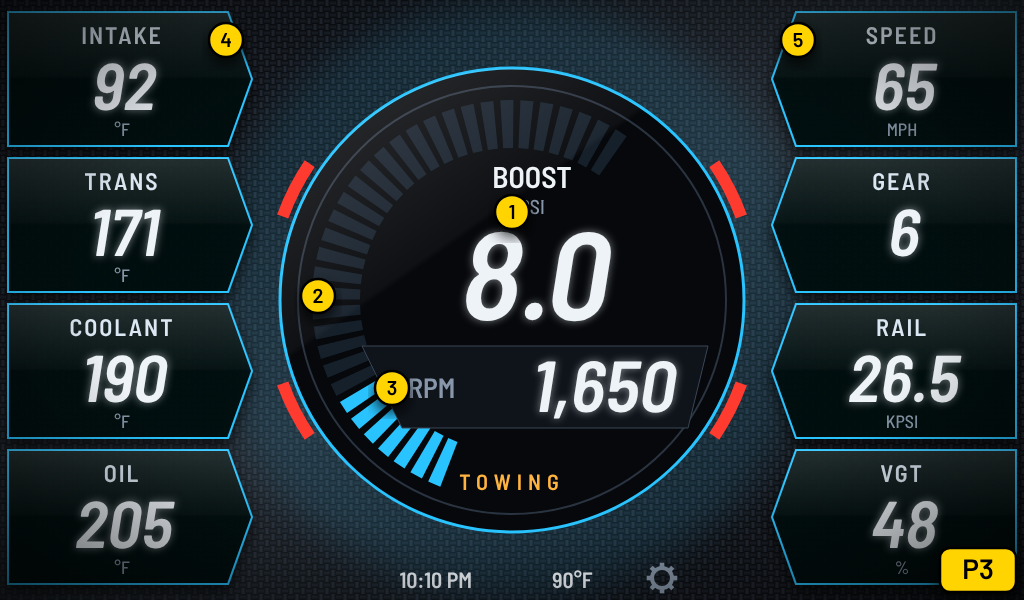
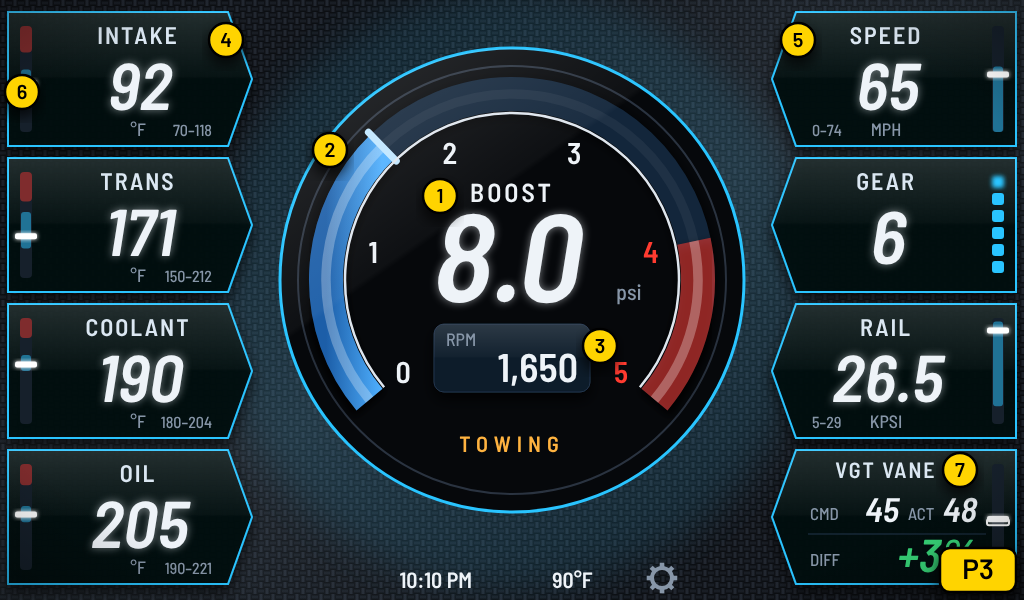
Mockups v2: P3 rev 2 (P4-style RPM arc and box, range bars with drive min/max, VGT CMD/ACT/DIFF), picker popup
Claude-Session: https://claude.ai/code/session_01NB1fkpFcGY28RY4JZ8NWPC

diff --git a/docs/mockups/v2.html b/docs/mockups/v2.html
@@ -37,7 +37,7 @@ s+=`<defs>
 <filter id="bloomBig" x="-60%" y="-60%" width="220%" height="220%"><feGaussianBlur stdDeviation="18"/></filter>
 <filter id="dshadow" x="-20%" y="-20%" width="140%" height="160%"><feDropShadow dx="0" dy="7" stdDeviation="7" flood-color="#000" flood-opacity=".75"/></filter>
 <filter id="nshadow" x="-50%" y="-50%" width="200%" height="200%"><feDropShadow dx="5" dy="7" stdDeviation="3.5" flood-color="#000" flood-opacity=".7"/></filter>
-<radialGradient id="vign" cx="50%" cy="48%" r="75%"><stop offset=".55" stop-color="#000" stop-opacity="0"/><stop offset="1" stop-color="#000" stop-opacity=".75"/></radialGradient>
+<radialGradient id="vign" cx="50%" cy="48%" r="78%"><stop offset=".7" stop-color="#000" stop-opacity="0"/><stop offset="1" stop-color="#000" stop-opacity=".45"/></radialGradient>
 <linearGradient id="glassG" x1="0" y1="0" x2=".7" y2="1"><stop offset="0" stop-color="#fff" stop-opacity=".17"/><stop offset=".42" stop-color="#fff" stop-opacity=".035"/><stop offset=".43" stop-color="#fff" stop-opacity="0"/><stop offset="1" stop-color="#fff" stop-opacity="0"/></linearGradient>
 <radialGradient id="faceIn" cx="50%" cy="50%" r="50%"><stop offset=".72" stop-color="#000" stop-opacity="0"/><stop offset="1" stop-color="#000" stop-opacity=".9"/></radialGradient>
 <linearGradient id="bevelHi" x1="0" y1="0" x2="0" y2="1"><stop offset="0" stop-color="#fff" stop-opacity=".95"/><stop offset=".45" stop-color="#fff" stop-opacity="0"/></linearGradient>
@@ -277,29 +277,59 @@ pages.classic_trend=()=>{let o=`<rect width="1024" height="600" fill="#0d0d0f"/>
 
 
 // Premium Towing: aftermarket diesel-monitor look (carbon, segmented EGT arc, side data panels)
-pages.premium_towing=()=>{const CX=512,CY=300;let o=`<rect width="1024" height="600" fill="url(#carbon)"/><rect width="1024" height="600" fill="url(#sheen)"/><circle cx="512" cy="300" r="300" fill="#29c4ff" opacity=".10" filter="url(#bloomBig)"/>`;GL.push([512,300,232]);
-  const CY2='#29c4ff',sk=(x,y,sz,t,op={})=>`<g transform="translate(${x},${y}) skewX(-9)">`+T(0,0,sz,t,{f:'C6',...op})+`</g>`;
+pages.premium_towing=()=>{const CX=512,CY=280;const CY2='#29c4ff';
+  let o=`<rect width="1024" height="600" fill="url(#carbon)"/><rect width="1024" height="600" fill="url(#sheen)"/><circle cx="512" cy="290" r="300" fill="#29c4ff" opacity=".10" filter="url(#bloomBig)"/>`;GL.push([CX,CY,232]);
+  const sk=(x,y,sz,t,op={})=>`<g transform="translate(${x},${y}) skewX(-9)">`+T(0,0,sz,t,{f:'C6',...op})+`</g>`;
   // center disc
   o+=`<circle cx="${CX}" cy="${CY}" r="232" fill="#06080b" stroke="${CY2}" stroke-width="3"/><circle cx="${CX}" cy="${CY}" r="214" fill="none" stroke="#2a3340" stroke-width="2"/>`;
-  [[200,214],[326,340]].forEach(([a0,a1])=>{o+=`<path d="${arc(CX,CY,244,a0,a1)}" stroke="${C.red}" stroke-width="12" fill="none"/>`});
-  [[20,34],[146,160]].forEach(([a0,a1])=>{o+=`<path d="${arc(CX,CY,244,a0,a1)}" stroke="${C.red}" stroke-width="12" fill="none"/>`});
-  // segmented EGT arc: left half, bottom to top
-  const N=34,A0=110,SW=196,fr=V.boost/40;
-  for(let i=0;i<N;i++){const a0=A0+SW*i/N+1,a1=A0+SW*(i+1)/N-1,on=i/N<fr,hot=i/N>=35/40;
-    const[x0,y0]=P(CX,CY,200,a0),[x1,y1]=P(CX,CY,200,a1),[x2,y2]=P(CX,CY,152,a1),[x3,y3]=P(CX,CY,152,a0);
-    o+=`<polygon points="${n1(x0)},${n1(y0)} ${n1(x1)},${n1(y1)} ${n1(x2)},${n1(y2)} ${n1(x3)},${n1(y3)}" fill="${on?(hot?C.red:CY2):'#16202b'}"/>`}
-  o+=T(CX+20,CY-112,30,'BOOST',{f:'C6'})+T(CX+20,CY-86,20,'PSI',{c:C.dim,f:'C5'});
-  o+=sk(CX+20,CY+20,124,V.boost.toFixed(1));
-  o+=`<path d="M${CX-150},${CY+46} H${CX+196} L${CX+176},${CY+128} H${CX-110} Z" fill="#0f141b" stroke="#3a4656"/>`;
-  o+=T(CX-104,CY+98,28,'RPM',{a:'start',f:'C6',c:C.dim})+sk(CX+162,CY+112,72,fmt(V.rpm),{a:'end'});
-  o+=T(CX,CY+190,22,'TOWING',{c:C.amber,ls:6,f:'C6'})+T(CX-40,588,22,'10:10 PM',{a:'end',f:'C6'})+T(CX+40,588,22,'90°F',{a:'start',f:'C6'})+cog(CX+150,578);
-  // side panels
-  const L=[['INTAKE',V.iat,'°F'],['TRANS',V.trans,'°F'],['COOLANT',V.cool,'°F'],['OIL',V.oil,'°F']];
-  const R=[['SPEED',V.mph,'MPH'],['GEAR',V.gear,''],['RAIL',26.5,'KPSI'],['VGT',V.vgt,'%']];
-  [[L,true],[R,false]].forEach(([items,left])=>items.forEach(([lab,val,u],i)=>{const y=12+i*146,x=left?8:772,w=244,h=134;
+  // smooth RPM arc (like P4-1)
+  const R=186,A0=140,SW=260,a=v=>A0+SW*v/5;
+  o+=`<path d="${arc(CX,CY,R,A0,A0+SW)}" stroke="#13263b" stroke-width="34" fill="none"/>`;
+  o+=`<path d="${arc(CX,CY,R,A0,a(V.rpm/1000))}" stroke="url(#blue)" stroke-width="34" fill="none"/>`;
+  o+=`<path d="${arc(CX,CY,R,a(4),a(5))}" stroke="${C.red}" stroke-width="34" fill="none" opacity=".55"/>`;
+  {const[x1,y1]=P(CX,CY,R-20,a(V.rpm/1000)),[x2,y2]=P(CX,CY,R+20,a(V.rpm/1000));o+=`<line x1="${n1(x1)}" y1="${n1(y1)}" x2="${n1(x2)}" y2="${n1(y2)}" stroke="#bfe6ff" stroke-width="7" stroke-linecap="round"/>`}
+  o+=`<path d="${arc(CX,CY,R-19,A0,A0+SW)}" stroke="#dfe6ee" stroke-width="2.5" fill="none"/>`;
+  for(let v=0;v<=5;v++){const[x,y]=P(CX,CY,R-44,a(v));o+=T(x,y,30,v,{db:'central',c:v>=4?C.red:C.text,f:'C6'})}
+  // boost, big
+  o+=T(CX,CY-78,26,'BOOST',{f:'C6',ls:3});o+=sk(CX-8,CY+22,124,V.boost.toFixed(1));o+=T(CX+104,CY+20,22,'psi',{a:'start',c:C.dim,f:'C5'});
+  // RPM box (like P4-6)
+  o+=`<rect x="434" y="${CY+44}" width="156" height="68" rx="10" fill="#0f1b2a" stroke="#22364d"/>`+T(446,CY+66,18,'RPM',{a:'start',c:C.dim,f:'C5'})+T(578,CY+102,40,fmt(V.rpm),{a:'end',f:'C6'});
+  o+=T(CX,CY+172,22,'TOWING',{c:C.amber,ls:6,f:'C6'});
+  o+=T(CX-40,588,22,'10:10 PM',{a:'end',f:'C6'})+T(CX+40,588,22,'90°F',{a:'start',f:'C6'})+cog(CX+150,578);
+  // side panels with a range bar on the straight edge: normal range, red zone, this drive's min-max, and now
+  function rbar(x,y,h,mn,mx,red,lo,hi,now,o2={}){const Y=v=>y+h-h*(Math.min(Math.max(v,mn),mx)-mn)/(mx-mn);let g='';
+    g+=`<rect x="${x}" y="${y}" width="12" height="${h}" rx="4" fill="#16202b"/>`;
+    if(red!=null)g+=`<rect x="${x}" y="${y}" width="12" height="${n1(Y(red)-y)}" rx="4" fill="${C.red}" opacity=".45"/>`;
+    if(lo!=null)g+=`<rect x="${x+1}" y="${n1(Y(hi))}" width="10" height="${n1(Y(lo)-Y(hi))}" rx="3" fill="${CY2}" opacity=".5"/>`;
+    if(o2.cmd!=null)g+=`<rect x="${x-5}" y="${n1(Y(o2.cmd)-3)}" width="22" height="6" rx="2" fill="none" stroke="#fff" stroke-width="2"/>`;
+    const hot=red!=null&&now>=red;g+=`<rect x="${x-5}" y="${n1(Y(now)-3)}" width="22" height="6" rx="2" fill="${hot?C.red:'#fff'}" filter="url(#glow2)"/><rect x="${x-5}" y="${n1(Y(now)-3)}" width="22" height="6" rx="2" fill="${hot?C.red:'#fff'}"/>`;return g}
+  const L=[['INTAKE',V.iat,'°F',[0,200,150,70,118]],['TRANS',V.trans,'°F',[100,280,230,150,212]],['COOLANT',V.cool,'°F',[100,260,230,180,204]],['OIL',V.oil,'°F',[100,300,260,190,221]]];
+  const Rr=[['SPEED',V.mph,'MPH',[0,120,null,0,74]],['GEAR',V.gear,'',null],['RAIL',26.5,'KPSI',[0,30,null,5,29]],['VGT',null,'',null]];
+  [[L,true],[Rr,false]].forEach(([items,left])=>items.forEach(([lab,val,u,rng],i)=>{const y=12+i*146,x=left?8:772,w=244,h=134;
     const pts=left?`${x},${y} ${x+w-24},${y} ${x+w},${y+h/2} ${x+w-24},${y+h} ${x},${y+h}`:`${x+24},${y} ${x+w},${y} ${x+w},${y+h} ${x+24},${y+h} ${x},${y+h/2}`;
     o+=`<polygon points="${pts}" fill="#06080bcc" stroke="${CY2}" stroke-width="2"/>`;
-    const cx=x+w/2+(left?-8:8);o+=T(cx,y+32,24,lab,{f:'C6',c:'#dbe7f2',ls:2})+sk(cx,y+98,66,val)+(u?T(cx,y+124,18,u,{c:C.dim,f:'C5'}):'')}));
+    const bx=left?x+12:x+w-24,cx=x+w/2+(left?8:-8);
+    if(lab=='VGT'){const cmd=45,act=V.vgt,diff=act-cmd,dc=Math.abs(diff)>=10?C.red:Math.abs(diff)>=5?C.amber:C.green;
+      o+=T(cx,y+28,22,'VGT VANE',{f:'C6',c:'#dbe7f2',ls:2});
+      o+=T(x+38,y+70,17,'CMD',{a:'start',c:C.dim,f:'C5'})+sk(x+126,y+72,34,cmd,{a:'end'});
+      o+=T(x+136,y+70,17,'ACT',{a:'start',c:C.dim,f:'C5'})+sk(x+204,y+72,34,act,{a:'end'});
+      o+=`<line x1="${x+36}" y1="${y+84}" x2="${x+214}" y2="${y+84}" stroke="#22364d"/>`;
+      o+=T(x+38,y+116,17,'DIFF',{a:'start',c:C.dim,f:'C5'})+sk(x+204,y+122,46,(diff>0?'+':'')+diff+'%',{a:'end',c:dc});
+      o+=rbar(bx,y+14,h-28,0,100,null,null,null,act,{cmd});return}
+    if(lab=='GEAR'){o+=T(cx,y+32,24,lab,{f:'C6',c:'#dbe7f2',ls:2})+sk(cx,y+106,74,val);
+      for(let g=1;g<=6;g++){const py=y+h-14-g*17;o+=`<rect x="${bx}" y="${py}" width="12" height="12" rx="3" fill="${g<=+val?CY2:'#16202b'}"${g==+val?' filter="url(#glow2)"':''}/>`}return}
+    const hot=rng&&rng[2]!=null&&val>=rng[2];
+    o+=T(cx,y+32,24,lab,{f:'C6',c:'#dbe7f2',ls:2})+sk(cx,y+98,66,val,{c:hot?C.red:C.text})+(u?T(cx,y+124,18,u,{c:C.dim,f:'C5'}):'');
+    if(rng)o+=rbar(bx,y+14,h-28,rng[0],rng[1],rng[2],rng[3],rng[4],val);
+    o+=T(left?x+w-40:x+40,y+124,16,rng&&rng[3]!=null?`${rng[3]}–${rng[4]}`:'',{a:left?'end':'start',c:C.dim,f:'C5'})}));
+  if(q.get('pick')){o+=`<rect width="1024" height="600" fill="#000" opacity=".72"/>`;
+    o+=`<rect x="92" y="44" width="840" height="512" rx="18" fill="#0b131d" stroke="${CY2}" stroke-width="2"/>`;
+    o+=T(124,96,30,'Show in the center',{a:'start',f:'C6'})+T(124,126,20,'Press and hold any reading to change it',{a:'start',c:C.dim,f:'C5'});
+    const ch=['Boost','RPM','Speed','Gear','Trans','Coolant','Oil','Intake','Outside','Rail','VGT','MPG','Fuel','Battery','Load','Baro'];
+    ch.forEach((t,i)=>{const cx2=124+(i%4)*196,cy2=150+Math.floor(i/4)*80,on=t=='Boost';
+      o+=`<rect x="${cx2}" y="${cy2}" width="180" height="66" rx="12" fill="${on?'#134a74':'#111c29'}" stroke="${on?CY2:'#22364d'}" stroke-width="${on?3:1.5}"/>`+T(cx2+90,cy2+42,26,t,{f:'C6',c:on?'#fff':C.text})});
+    o+=`<rect x="124" y="476" width="240" height="60" rx="12" fill="#111c29" stroke="#22364d"/>`+T(244,515,24,'Reset to default',{f:'C6',c:C.dim});
+    o+=`<rect x="716" y="476" width="184" height="60" rx="12" fill="#111c29" stroke="#22364d"/>`+T(808,515,24,'Cancel',{f:'C6'})}
   return o};
 
 // Classic Daily: vintage pickup dash (horizontal sweep speedo, round tach, twin-gauge windows)
@@ -356,13 +386,13 @@ let spill=TH=='classic'?'<rect width="1024" height="600" fill="url(#brushed)"/>'
 GL.forEach(([cx,cy,r])=>spill+=`<circle cx="${cx}" cy="${cy}" r="${(r*1.12).toFixed(0)}" fill="${TH=='classic'?C.green:C.acc}" opacity="${TH=='classic'?.07:.12}" filter="url(#bloomBig)"/>`);
 s=s.replace('<!--SPILL-->',spill)+pg;
 // glass on every dial and window, then a vignette
-GL.forEach(([cx,cy,r])=>s+=`<circle cx="${cx}" cy="${cy}" r="${r}" fill="url(#glassG)"/>`);
+if(!q.get('pick'))GL.forEach(([cx,cy,r])=>s+=`<circle cx="${cx}" cy="${cy}" r="${r}" fill="url(#glassG)"/>`);
 GLR.forEach(([x,y,w,h,r])=>s+=`<rect x="${x}" y="${y}" width="${w}" height="${h}" rx="${r}" fill="url(#glassG)"/>`);
 s+='<rect width="1024" height="600" fill="url(#vign)" pointer-events="none"/>';
 // ?n=1: numbered callouts so feedback can say "P2-4" or "C3-6"
 const CALL={premium_daily:[[118,262],[262,250],[512,222],[690,170],[48,560],[400,560],[740,560],[60,8]],
  premium_sport:[[312,128],[600,180],[600,370],[690,280],[48,96],[48,420],[976,96],[976,420]],
- premium_towing:[[512,212],[318,296],[392,388],[226,40],[798,40]],
+ premium_towing:[[440,196],[330,150],[600,346],[226,40],[798,40],[22,92],[960,470]],
  premium_economy:[[420,110],[640,250],[580,450],[96,330],[260,150],[340,330],[980,330],[800,150],[512,548]],
  premium_trend:[[248,62],[440,80],[620,330],[716,165],[790,96],[262,540]],
  classic_daily:[[52,112],[300,92],[620,278],[992,112],[170,350],[546,350],[40,488]],

diff --git a/docs/mockups/v2/KEY.md b/docs/mockups/v2/KEY.md
@@ -7,10 +7,12 @@ renders are in `numbered/`.
 |---|---|
 | **P1** Premium Daily | 1 tach that wraps into the top bar · 2 gear dial · 3 center card (boost/trans/MPG) · 4 speedo · 5 odometer · 6 coolant · 7 fuel % and range · 8 clock/date bar |
 | **P2** Premium Sport | 1 big center tach · 2 speed · 3 gear · 4 red-zone glow · 5 coolant bar · 6 trans bar · 7 boost bar · 8 oil bar |
-| **P3** Premium Towing | 1 boost (center) · 2 segmented boost arc · 3 RPM box · 4 left panels (intake/trans/coolant/oil) · 5 right panels (speed/gear/rail/VGT) |
+| **P3** Premium Towing (rev 2) | 1 boost (center) · 2 RPM arc · 3 RPM box · 4 left panels (intake/trans/coolant/oil) · 5 right panels (speed/gear/rail/VGT) · 6 range bars: normal range, red zone, this drive's min–max, and now · 7 VGT vane: CMD, ACT and DIFF (amber at 5%, red at 10%) |
 | **P4** Premium Economy | 1 open-arc tach · 2 speed · 3 gear · 4 fuel bar · 5 fuel % and range · 6 trip/tank boxes · 7 MPG bar with tank-avg marker · 8 MPG now/trip/last 10 · 9 telltales |
 | **P5** Premium Trend | 1 channel list · 2 live values · 3 chart · 4 tap cursor · 5 min/avg/max · 6 time window buttons |
 | **C1** Classic Daily | 1 digital speed/gear window · 2 sweep speedo · 3 odometer · 4 round tach · 5 temp/trans window · 6 boost/fuel window · 7 clock |
 | **C2** Classic Towing | 1 top strip (gear/speed/rpm/clock) · 2 boost · 3 trans · 4 coolant · 5 oil · 6 peak marker · 7 big number with peak |
 | **C3** Classic Economy | 1 MPG gauge · 2 tank-avg marker · 3 MPG digital window · 4 fuel gauge with range · 5 tank/trip/last-10 boxes · 6 Fill-up/History buttons |
 | **C4** Classic Trend | 1 pen readouts · 2 pen selector · 3 strip chart · 4 time window buttons · 5 peaks |
+
+Every reading on P3 can be swapped: press and hold it to open the picker (`premium_towing_picker.png`).
